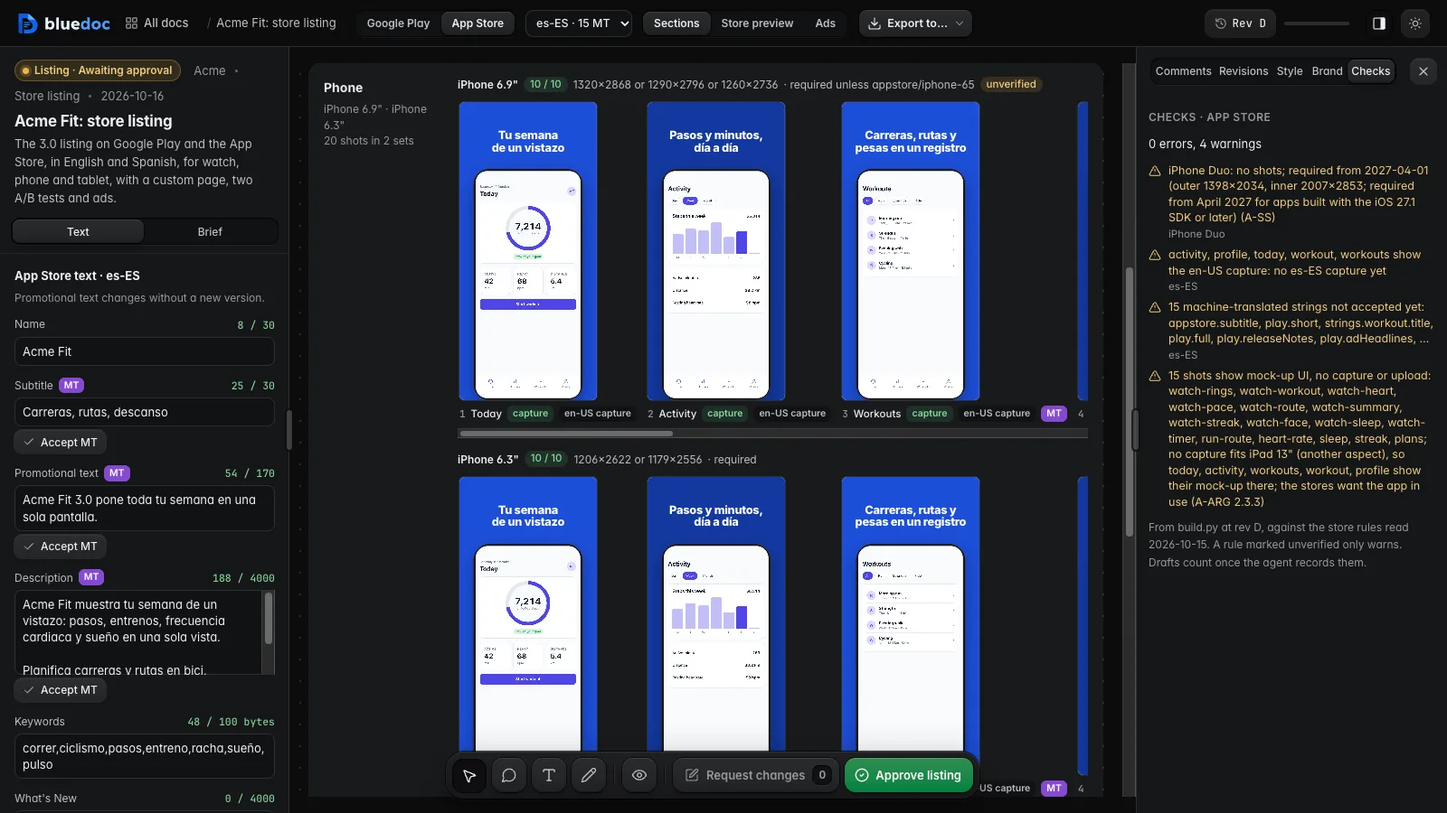
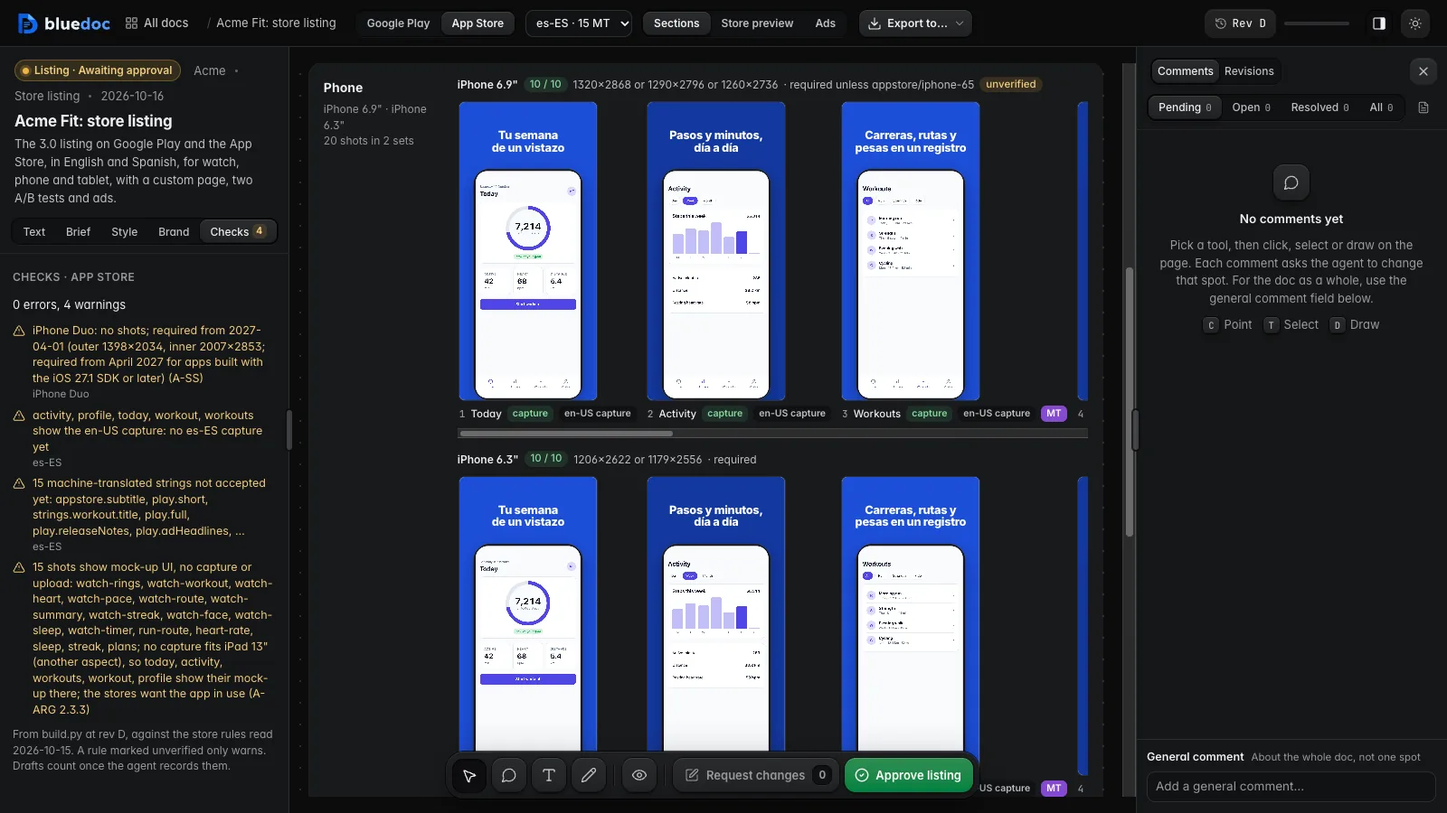
storelisting: Style, Brand and Checks move to the left panel (Text · Brief · Style · Brand · Checks, one row at 300 px and up, the Checks tab counts errors else warnings, the browser keeps the tab); the right panel keeps Comments and Revisions as on every doc; a style or brand finding opens its tab;

diff --git a/skills/bluedoc/assets/template.html b/skills/bluedoc/assets/template.html
@@ -1834,8 +1834,8 @@ html.bd-presenting .bp-toast { z-index: 71; bottom: 84px; }
 .bd-anntb.compact .bd-key :is(.t, .l) { display: none; }
 
 /* ---------- a storelisting's platform pages (renderListing): the platform switch and the locale menu in the app
-   bar; the store text and captions in the left panel; the device sections, each a card of its sets' shots at scale,
-   in the full-bleed layer; Style, Brand and Checks beside Comments in the right panel ---------- */
+   bar; the left panel's Text, Brief, Style, Brand and Checks; the device sections, each a card of its sets' shots
+   at scale, in the full-bleed layer ---------- */
 .bd-lst-tb { display: flex; align-items: center; gap: 10px; flex: none; margin-left: 8px; }
 .bd-lst-tb .bd-sg button { padding: 0 12px; font-weight: 600; }
 .bd-lst-loc { height: 30px; border: 0; border-radius: 9px; padding: 0 8px; font: 500 12.5px var(--sans); color: var(--fg); background: var(--inset); box-shadow: inset 0 0 0 1px var(--line); }
@@ -1988,10 +1988,17 @@ html.bd-presenting .bp-toast { z-index: 71; bottom: 84px; }
 .bd-lst-tb .bd-exp { margin-left: 2px; }
 .bd-lfield.cap { grid-template-columns: minmax(0, 1fr); }
 .bd-lfield.cap .v { max-height: none; }
-/* Style, Brand and Checks in the right panel */
-.bd-lst-pane { display: grid; align-content: start; gap: 10px; padding: 12px 14px calc(16px + var(--tray-room, 0px)); overflow: auto; min-height: 0; min-width: 0; font-size: 13px; }
+/* the left panel's five tabs: no shrinking; a panel too narrow for them scrolls them sideways. Checks counts its errors (else warnings) */
+.bd-lst-lpt { position: relative; overflow-x: auto; scrollbar-width: none; }
+.bd-lst-lpt::-webkit-scrollbar { display: none; }
+.bd-lst-lpt button { flex: 1 0 auto; gap: 3px; padding: 0 5px; }
+.bd-lst-lpt .n { min-width: 16px; height: 16px; padding: 0 4px; border-radius: 5px; font: 650 10.5px/16px var(--sans); font-variant-numeric: tabular-nums; color: var(--risk-fg); background: var(--risk-tint); }
+.bd-lst-lpt .n.warn { color: var(--warn-fg); background: var(--warn-tint); }
+.bd-lst-lpt .n[hidden] { display: none; }
+/* Style, Brand and Checks: left panel tabs */
+.bd-lst-pane { display: grid; grid-template-columns: minmax(0, 1fr); align-content: start; gap: 10px; padding: 12px 14px calc(16px + var(--tray-room, 0px)); overflow: auto; overflow-x: hidden; min-height: 0; min-width: 0; font-size: 13px; }
 .bd-lst-pane > p { margin: 0; }
-.bd-lst-pane .hint { font-size: 12px; color: var(--fg-subtle); }
+.bd-lst-pane .hint { margin: 0; font-size: 12px; color: var(--fg-subtle); }
 .bd-lst-pane h4 { margin: 4px 0 0; font-size: 12px; font-weight: 600; text-transform: uppercase; letter-spacing: .04em; color: var(--fg-subtle); }
 /* the Style pane: a card per style (its thumbnail in the brand's colours, grade, store form, state); the pick is on */
 .bd-lst-pick { display: flex; flex-wrap: wrap; align-items: center; gap: 6px 10px; padding: 8px 10px; border-radius: 10px; background: var(--inset); font-size: 12.5px; color: var(--fg-muted); }
@@ -2682,10 +2689,11 @@ function resetWidth() { userW = 0; store.del(WIDTH_KEY); applyWidth(); toast('Co
 
 // A design page's panels take the same handles on the edge each shares with the board: Screens and Brief on
 // the left (while open), Comments and Revisions on the right (while docked). Their widths are reader prefs
-// too; each panel stays within its bounds and leaves the board at least BOARD_MIN wide.
+// too; each panel stays within its bounds and leaves the board at least BOARD_MIN wide. A storelisting's left
+// panel holds five tabs and the Brand pane's rows: at least 300 px.
 const BOARD_MIN = 480;
 const PANELS = IS_DESIGN ? [
-  { side: 'left', v: '--lp-w', key: 'bluedoc:design-left-w', min: 240, max: 560, dir: 1, label: 'Width of the screens and brief panel', on: () => root.classList.contains('bd-lp-open') && !PHONE.matches },
+  { side: 'left', v: '--lp-w', key: 'bluedoc:design-left-w', min: IS_LISTING ? 300 : 240, max: 560, dir: 1, label: IS_LISTING ? 'Width of the left panel' : 'Width of the screens and brief panel', on: () => root.classList.contains('bd-lp-open') && !PHONE.matches },
   { side: 'right', v: '--sp-w', key: 'bluedoc:design-right-w', min: 280, max: 640, dir: -1, label: 'Width of the comments panel', on: () => dockW() > 0 },
 ] : [];
 for (const p of PANELS) {
@@ -6597,7 +6605,8 @@ function renderListing(lb) {
     ['ads', 'Ads', 'Google App campaign and Apple Ads assets']].map(([v, l, t]) => h('button', { type: 'button', role: 'radio', 'data-view': v, title: t, onclick: () => setView(v) }, l)));
   const tb = h('div', { class: 'bd-lst-tb' }, platSeg, locSel, viewSeg, SERVED && exportMenu(LST_EXPORTS, exportListing, 'Export the listing: a ZIP for fastlane, a PDF or an HTML file', false));
 
-  /* the left panel: Text (this platform's store text and the captions, for the locale) and Brief */
+  /* the left panel: Text (this platform's store text and the captions, for the locale), Brief, then Style, Brand
+     and Checks (below) */
   const lpText = h('div', { class: 'bd-lp-pane bd-lst-text', id: 'bd-lp-text' });
   let lp = null, lpTabs = null;
   function paintText() {
@@ -7261,8 +7270,10 @@ function renderListing(lb) {
     return out;
   };
 
-  /* the right panel: Style, Brand and Checks for the platform on screen */
-  const paneStyle = h('div', { class: 'bd-lst-pane bd-lst-stp' }), paneBrand = h('div', { class: 'bd-lst-pane bd-lst-brp' }), paneChecks = h('div', { class: 'bd-lst-pane' });
+  /* the left panel's Style, Brand and Checks for the platform on screen: panel furniture (bd-lp-ui), so Point and
+     Select leave their controls alone */
+  const lpPane = (id, cls) => h('div', { class: `bd-lp-pane bd-lp-ui bd-lst-pane ${cls}`.trim(), id: 'bd-lp-' + id, hidden: true });
+  const paneStyle = lpPane('style', 'bd-lst-stp'), paneBrand = lpPane('brand', 'bd-lst-brp'), paneChecks = lpPane('checks', '');
   L.panes = { style: paneStyle, brand: paneBrand, checks: paneChecks };
 
   /* ---------- Style and Brand ----------
@@ -7355,7 +7366,6 @@ function renderListing(lb) {
     const vb = pg.querySelector('.bd-lst-vbar'), p = PLATS.find(x => x.id === L.platform);
     if (vb && p) vb.replaceWith(variantBar(p));   // a style pick changes a variant's count of changes
     paintStyle(); paintBrand();
-    if (L.S) L.S.paint();
   };
 
   // kits/style-thumbs.svg (LST.thumbs): its symbols in the page once, each card a <use> of its own
@@ -7472,7 +7482,7 @@ function renderListing(lb) {
     } catch { toast('Couldn\'t read that image'); } finally { BUI.drop.classList.remove('busy'); }
   }
   function buildBrand() {
-    const q = h('input', { type: 'search', class: 'bd-lst-fq', placeholder: 'Search the installed fonts', 'aria-label': 'Search the installed fonts', autocomplete: 'off', spellcheck: 'false' });
+    const q = h('input', { type: 'search', class: 'bd-lst-fq', placeholder: 'Search fonts', 'aria-label': 'Search the installed fonts', autocomplete: 'off', spellcheck: 'false' });
     q.addEventListener('input', () => { FONTS.q = q.value; paintBrand(); });
     q.addEventListener('focus', () => { if (!FONTS.list && !FONTS.busy) loadFonts(); });
     const weight = h('select', { class: 'bd-lst-fw', 'aria-label': 'Caption weight' });
@@ -7552,17 +7562,28 @@ function renderListing(lb) {
   function paintChecks() {
     const cs = L.checks(), p = PLATS.find(x => x.id === L.platform), ne = cs.filter(([k]) => k === 'err').length, nw = cs.length - ne;
     const where = f => [f.set && SETS.has(f.set) ? SETS.get(f.set).label : null, ...(Array.isArray(f.locales) ? f.locales : [])].filter(Boolean).join(' · ');
+    // a finding with a key shows its shot, field, section or variant; one on the style or the brand (`….style.play`,
+    // `….brand.palette`: the style hooks that need the agent, the contrast pairs) opens its tab
+    const paneOf = f => { const m = typeof f.where === 'string' && /\.(style|brand)(?:\.|$)/.exec(f.where); return m ? m[1] : null; };
     const item = ([k, t, f]) => {
-      const go = typeof f.key === 'string' && f.key ? () => L.focusKey(f.key) : null;
+      const tab = paneOf(f), go = typeof f.key === 'string' && f.key ? () => L.focusKey(f.key) : tab ? () => { setLp(true, false); setTab(tab, false); } : null;
       return h('li', { class: k, 'data-key': f.key || null }, ic(k === 'err' ? 'x' : 'alert'),
-        h('span', { class: 't' }, go ? h('button', { type: 'button', class: 'bd-lst-ui', title: 'Show it', onclick: go }, t) : t, where(f) && h('small', {}, where(f))));
+        h('span', { class: 't' }, go ? h('button', { type: 'button', class: 'bd-lst-ui', title: tab && !f.key ? `Open ${tab === 'style' ? 'Style' : 'Brand'}` : 'Show it', onclick: go }, t) : t, where(f) && h('small', {}, where(f))));
     };
     setKids(paneChecks, h('h4', {}, `Checks · ${p ? p.label : ''}`),
       h('p', { class: 'bd-lst-csum' + (ne ? ' err' : '') }, ne || nw ? `${ne} error${ne === 1 ? '' : 's'}, ${nw} warning${nw === 1 ? '' : 's'}` : 'The store rules pass on this page'),
       h('ul', { class: 'bd-lst-checks' }, cs.length ? cs.map(item) : h('li', { class: 'ok' }, ic('tick'), h('span', { class: 't' }, 'Sizes, counts, required sets, text limits and locales pass'))),
       h('p', { class: 'hint' }, `From build.py at rev ${CUR.rev || '-'}${OLD ? ' (the current revision)' : ''}, against the store rules read ${RULES.accessed}. A rule marked unverified only warns. Drafts count once the agent records them.`));
+    paintChecksTab(ne, nw);
   }
-  function paintSide() { paintStyle(); paintBrand(); paintChecks(); if (L.S) L.S.paint(); }
+  // the Checks tab's count: its errors, else its warnings
+  function paintChecksTab(ne, nw) {
+    const bt = lpTabs && lpTabs.querySelector('[data-v="checks"]'); if (!bt) return;
+    const n = bt.querySelector('.n'), say = ne || nw ? `${ne} error${ne === 1 ? '' : 's'}, ${nw} warning${nw === 1 ? '' : 's'}` : 'The store rules pass';
+    n.hidden = !(ne || nw); n.textContent = String(ne || nw); n.classList.toggle('warn', !ne);
+    bt.title = say; bt.setAttribute('aria-label', `Checks: ${say}`);
+  }
+  function paintSide() { paintStyle(); paintBrand(); paintChecks(); }
 
   /* BOARD's interface for the page around it (MARKUP, SIDE, compare) */
   L.setMode = m => { L.mode = m; pg.dataset.m = ['point', 'select'].includes(m) ? m : 'view'; for (const x of L.live) post(x, { bd: 'mode', mode: frameMode() }); };
@@ -7653,10 +7674,15 @@ function renderListing(lb) {
     applyWidth(); if (remember) store.set(LP_KEY, L.lp ? '1' : '0');
     setTimeout(() => L.M && L.M.relayout(), 260);
   }
+  const LP_TABS = [['text', 'Text'], ['brief', 'Brief'], ['style', 'Style'], ['brand', 'Brand'], ['checks', 'Checks']];
   function setTab(t, remember) {
-    if (!lp) return;
+    if (!lp || !LP_TABS.some(([v]) => v === t)) return;
     if (remember) store.set(LP_TAB, t);
-    for (const bt of lpTabs.querySelectorAll('button')) { const on = bt.dataset.v === t; bt.setAttribute('aria-checked', String(on)); $('#' + bt.getAttribute('aria-controls')).hidden = !on; }
+    for (const bt of lpTabs.querySelectorAll('button')) {
+      const on = bt.dataset.v === t; bt.setAttribute('aria-checked', String(on)); $('#' + bt.getAttribute('aria-controls')).hidden = !on;
+      // a strip narrower than its tabs scrolls the picked one into view (the strip only, never the page)
+      if (on && lpTabs.scrollWidth > lpTabs.clientWidth) lpTabs.scrollLeft = Math.max(0, Math.min(lpTabs.scrollLeft, bt.offsetLeft - 4), bt.offsetLeft + bt.offsetWidth + 4 - lpTabs.clientWidth);
+    }
   }
   L.start = () => {
     const blk = wrap.closest('.bp-block'), shell = $('.bd-shell');
@@ -7664,13 +7690,15 @@ function renderListing(lb) {
     blk.replaceWith(h('div', { class: 'bp-block bd-board-ph' }, ic('frame'), h('span', {}, 'This listing is on the platform pages.')));
     blk.classList.add('bd-boardblk'); shell.append(blk);
     $('.bd-crumb').after(tb);
-    lpTabs = h('div', { class: 'bd-sg', role: 'radiogroup', 'aria-label': 'Panel' }, [['text', 'Text'], ['brief', 'Brief']].map(([v, l]) =>
-      h('button', { type: 'button', role: 'radio', 'data-v': v, 'aria-controls': 'bd-lp-' + v, onclick: () => setTab(v, true) }, l)));
-    lp = h('aside', { class: 'bd-lp', 'aria-label': 'Store text and brief', inert: true }, head, h('div', { class: 'bd-lp-tabs bd-lp-ui' }, lpTabs), lpText,
-      h('div', { class: 'bd-lp-pane', id: 'bd-lp-brief', hidden: true }, tldr, main));
+    lpTabs = h('div', { class: 'bd-sg bd-lst-lpt', role: 'radiogroup', 'aria-label': 'Panel' }, LP_TABS.map(([v, l]) =>
+      h('button', { type: 'button', role: 'radio', 'data-v': v, 'aria-controls': 'bd-lp-' + v, onclick: () => setTab(v, true) }, l, v === 'checks' && h('span', { class: 'n', hidden: true }))));
+    lp = h('aside', { class: 'bd-lp', 'aria-label': 'Text, brief, style, brand and checks', inert: true }, head, h('div', { class: 'bd-lp-tabs bd-lp-ui' }, lpTabs), lpText,
+      h('div', { class: 'bd-lp-pane', id: 'bd-lp-brief', hidden: true }, tldr, main), paneStyle, paneBrand, paneChecks);
     shell.prepend(lp);
     placeMeta();
-    setTab(store.get(LP_TAB) === 'brief' ? 'brief' : 'text', false);
+    const tab = store.get(LP_TAB);
+    setTab(LP_TABS.some(([v]) => v === tab) ? tab : 'text', false);
+    paintChecks();
     const pref = store.get(LP_KEY);
     setLp(pref ? pref === '1' : innerWidth > 900, false);
     paintTb(); renderSections(); writeHash();
@@ -7681,14 +7709,11 @@ function renderListing(lb) {
     });
     pg.addEventListener('scroll', () => { if (L.M) L.M.relayout(); }, { passive: true });
   };
-  // after MARKUP and SIDE exist: the drafts, the right panel's tabs
+  // after MARKUP exists: the drafts
   L.afterMarkup = () => {
-    L.M = MARKUP; L.D = MARKUP.drafts || null; L.S = SIDE;
+    L.M = MARKUP; L.D = MARKUP.drafts || null;
     if (L.D) for (const a of drafts()) { const f = L.draftRecorded[a.listing.op]; if (f && f(a.listing)) L.D.resolve(a.id); }   // a draft the doc now has is applied
     L.syncUploads();
-    SIDE.add({ id: 'style', label: 'Style', at: 2, body: paneStyle });
-    SIDE.add({ id: 'brand', label: 'Brand', at: 3, body: paneBrand });
-    SIDE.add({ id: 'checks', label: 'Checks', at: 4, body: paneChecks, chip: () => { const n = L.checks().filter(([k]) => k === 'err').length; return n ? `${n} error${n === 1 ? '' : 's'}` : ''; } });
     draftSig = ''; liveSig = ''; L.paintDrafts(); renderSections(); paintSide();
     for (const x of L.tiles) locate(x);
   };

diff --git a/tests/test_listing_export.py b/tests/test_listing_export.py
@@ -263,9 +263,9 @@ class ListingPage(ChromePage):
         t.ev(f"location.hash = {json.dumps(frag)}; location.reload()")
         t.wait_for("document.readyState === 'complete' && !!window.BP && !!document.querySelector('.bd-lst-sec') && !!BP.listing()")
         if side:
-            t.ev("document.documentElement.classList.contains('bd-sp-open') || document.querySelector('.bd-sp-btn').click()")
-            t.ev(f"document.querySelector('.bd-sp-tabs [data-f=\"{side}\"]').click()")
-            t.wait_for(f"!document.getElementById('bd-sp-{side}').hidden")
+            t.ev("document.documentElement.classList.contains('bd-lp-open') || document.dispatchEvent(new KeyboardEvent('keydown', {key: '['}))")
+            t.ev(f"document.querySelector('.bd-lp-tabs [data-v=\"{side}\"]').click()")
+            t.wait_for(f"!document.getElementById('bd-lp-{side}').hidden && document.documentElement.classList.contains('bd-lp-open')")
         return t
 
     def approve_disabled(self, t) -> bool:
@@ -275,12 +275,27 @@ class ListingPage(ChromePage):
         path = copy_broken(self.docs)
         t = self.page(self.server.url_for(path), "#appstore", "checks")
         found = [f for f in listing.checks_page_data(load_json(path), path) if not f["platforms"] or "appstore" in f["platforms"]]
-        got = t.ev("[...document.querySelectorAll('#bd-sp-checks .bd-lst-checks li')].map(li => [li.className, li.dataset.key || null])")
+        got = t.ev("[...document.querySelectorAll('#bd-lp-checks .bd-lst-checks li')].map(li => [li.className, li.dataset.key || null])")
         self.assertEqual(sorted(got, key=repr), sorted([[f["level"], f["key"]] for f in found], key=repr))
         self.assertTrue(any(k == "err" for k, _ in got))
         texts = t.ev("(() => { const w = document.createTreeWalker(document.querySelector('.bd-lst-brp'), NodeFilter.SHOW_TEXT), out = [];"
                      " while (w.nextNode()) out.push(w.currentNode.data.trim()); return out; })()")
         self.assertNotIn("false", texts, "a `cond && h(…)` child drew as text")
+        # the tab is the left panel's, with its count of errors; the right panel keeps Comments and Revisions only
+        ne = sum(f["level"] == "err" for f in found)
+        self.assertEqual(t.ev("[...document.querySelectorAll('.bd-lp-tabs [data-v]')].map(b => b.dataset.v)"), ["text", "brief", "style", "brand", "checks"])
+        self.assertEqual(t.ev("(n => [n.hidden, n.textContent, n.classList.contains('warn')])(document.querySelector('.bd-lp-tabs [data-v=checks] .n'))"), [False, str(ne), False])
+        self.assertEqual(t.ev("document.querySelector('.bd-lp-tabs').getBoundingClientRect().height < 50"), True, "the five tabs keep one row")
+        side = t.ev("BP.sidebar().available")
+        self.assertTrue(side and set(side) <= {"comments", "revisions"}, side)
+        self.assertEqual(t.ev("document.querySelectorAll('#bd-sp .bd-lst-pane, #bd-sp-style, #bd-sp-brand, #bd-sp-checks').length"), 0)
+        # a finding with a key shows its shot
+        t.ev("document.querySelector('#bd-lp-checks li[data-key=\"artboard:alpha\"] button').click()")
+        t.wait_for("!!document.querySelector('.bd-lst-shot[data-ab=\"alpha\"].flash')")
+        # a reload keeps the tab
+        t.ev("window.__before = 1; location.reload()")
+        t.wait_for("!window.__before && document.readyState === 'complete' && !!window.BP && !!document.querySelector('.bd-lst-sec') && !!BP.listing()")
+        self.assertEqual(t.ev("[document.getElementById('bd-lp-checks').hidden, document.querySelector('.bd-lp-tabs [data-v=checks]').getAttribute('aria-checked')]"), [False, "true"])
 
     def test_accept_mt_is_a_draft_whose_command_clears_the_badge(self) -> None:
         t = self.page(self.url, "#play/es-ES")

diff --git a/tests/test_listing_brand.py b/tests/test_listing_brand.py
@@ -4,9 +4,10 @@ store-rules.json `brand` and match a reference WCAG 2.2 calculation; the build w
 embed and a style whose hook is missing, and checks listing.style.<platform>; `patch brand:` records a brand draft;
 GET /__bluedoc/fonts and POST /__bluedoc/listing/brand need the key, and the brand image lands in
 <stem>.listing/brand/. Under node, the page's k-means finds an image's colours by share and gives them roles.
-The browser tests (BLUEDOC_BROWSER_TESTS=1): a style pick restyles the shots in place and goes as decisions with its
-patch command; an image's palette, the role editor and the contrast pairs; a brand draft blocks Approve; the font menu
-lists the folder's fonts and ↻ Fonts finds a new one; an installed font renders in a shot."""
+The browser tests (BLUEDOC_BROWSER_TESTS=1), on the left panel's Style, Brand and Checks tabs: a style pick restyles
+the shots in place and goes as decisions with its patch command; a style finding in Checks opens Style; an image's
+palette, the role editor and the contrast pairs; a brand draft blocks Approve; the font menu lists the folder's fonts
+and ↻ Fonts finds a new one; an installed font renders in a shot."""
 from __future__ import annotations
 
 import base64
@@ -404,12 +405,12 @@ class BrandPage(ChromePage):
         self.base = f"http://{self.server.host}"
 
     def page(self, side: str):
-        """The listing's page with the right panel open on `side` (style or brand)."""
+        """The listing's page with the left panel open on `side` (style or brand)."""
         t = self.open(self.url)
         t.wait_for("!!document.querySelector('.bd-lst-sec') && !!BP.listing()")
-        t.ev("document.documentElement.classList.contains('bd-sp-open') || document.querySelector('.bd-sp-btn').click()")
-        t.ev(f"document.querySelector('.bd-sp-tabs [data-f=\"{side}\"]').click()")
-        t.wait_for(f"!document.getElementById('bd-sp-{side}').hidden")
+        t.ev("document.documentElement.classList.contains('bd-lp-open') || document.dispatchEvent(new KeyboardEvent('keydown', {key: '['}))")
+        t.ev(f"document.querySelector('.bd-lp-tabs [data-v=\"{side}\"]').click()")
+        t.wait_for(f"!document.getElementById('bd-lp-{side}').hidden && document.documentElement.classList.contains('bd-lp-open')")
         return t
 
     def first_tile(self, t, s: str = "play/phone") -> dict:
@@ -450,6 +451,18 @@ class BrandPage(ChromePage):
         t2 = self.page("style")
         self.assertEqual(t2.ev(LST)["style"], {"message": "m3", "layout": "l4"})
         self.assertNotIn("Your pick", t2.ev("document.querySelector('.bd-lst-pick').textContent"))
+
+    def test_a_style_finding_in_checks_opens_the_style_tab(self) -> None:
+        doc = load_json(self.doc_path)
+        lb = listing.listing_of(doc)
+        lb["style"] = {**(lb.get("style") or {}), "play": {"message": "m4", "layout": "l1"}}   # M4 on Play warns: use-case first
+        self.doc_path.write_text(json.dumps(doc, indent=2, ensure_ascii=False) + "\n")
+        t = self.page("checks")
+        t.ev("BP.listing({platform: 'play'})")
+        open_style = "[...document.querySelectorAll('#bd-lp-checks li.warn button')].find(b => b.title === 'Open Style')"
+        t.wait_for(f"!!{open_style}")
+        t.ev(f"{open_style}.click()")
+        t.wait_for("!document.getElementById('bd-lp-style').hidden && document.querySelector('.bd-lp-tabs [data-v=style]').getAttribute('aria-checked') === 'true'")
 
     def test_a_palette_from_an_image_with_roles_contrast_and_a_draft_that_blocks_approve(self) -> None:
         t = self.page("brand")

diff --git a/docs/types/storelisting.md b/docs/types/storelisting.md
@@ -2,7 +2,7 @@
 
 An app's listing on Google Play and the App Store: the screenshots for every device, the icon and feature graphic, the store text in each locale, A/B tests, custom pages and ads. You check it against the stores' rules, comment on any shot or field, approve it, and get the fastlane folders to upload. The app's own screens are a [design](design.md).
 
-![The acme-fit-listing App Store page in es-ES: the store text with its counters and MT badges on the left, the iPhone 6.9" and 6.3" sets of captured shots with Spanish captions, and the Checks tab listing the store-rule warnings](../media/storelisting-hero.webp)
+![The acme-fit-listing App Store page in es-ES: the left panel's Checks tab listing the store-rule warnings, the iPhone 6.9" and 6.3" sets of captured shots with Spanish captions, and Comments and Revisions on the right](../media/storelisting-hero.webp)
 
 ## Features
 
@@ -10,9 +10,9 @@ An app's listing on Google Play and the App Store: the screenshots for every dev
 - **One file, every set.** A shot is an HTML file in the shot kit: a caption, a device frame or card, and the app's UI. The page renders the same file at each set's size (Play phone 1080×1920, iPhone 6.9" 1320×2868, iPad 2064×2752, Wear OS, Apple Watch), so a change lands everywhere at once. Watch sets show the UI alone, as the stores require.
 - **Real screenshots.** A shot shows a mock-up until it has a capture or an upload, and says so (**mock UI**, **capture**, **stale**, **upload**). `capture.py` runs each shot's recipe on the iOS and watchOS simulators, an Android or Wear OS emulator, or headless Chrome against a design doc's screens or a local dev server, with a 9:41 status bar. Drop a PNG on a set's slot to upload one; the page and the server check its size and alpha first.
 - **Re-shoot from a comment.** A pin on a capture names the shot, its screen, the recipe and the `capture.py` command, so the agent fixes the app or the recipe and re-shoots; compare shows the old capture beside the new one.
-- **Styles and brand.** The **Style** tab picks a caption style (M1–M5) and a layout (L1–L5) per platform, each with its evidence; every shot re-renders live. The **Brand** tab sets the caption font from the fonts installed on your machine, and a palette, by hand or extracted from an image, with a contrast check on each text pair.
+- **Styles and brand.** The left panel's **Style** tab picks a caption style (M1–M5) and a layout (L1–L5) per platform, each with its evidence; every shot re-renders live. The **Brand** tab sets the caption font from the fonts installed on your machine, and a palette, by hand or extracted from an image, with a contrast check on each text pair.
 - **Locales and MT.** The locale menu switches text, captions and captures; each entry counts missing and machine-translated strings. MT strings carry an **MT** badge until accepted; **Accept MT** sends the agent the command that clears them. A missing string falls back to the default locale and is flagged where it shows.
-- **Store checks.** `build.py` checks the listing against a dated rules file with a source for each rule: text limits (Apple's keywords in bytes), set counts and required sets, exact sizes, alpha, Wear's UI-only rule, the Apple Watch's one size, locales that fall back, mock-up UI, contrast and variants. The **Checks** tab lists each page's findings; a rule marked unverified only warns.
+- **Store checks.** `build.py` checks the listing against a dated rules file with a source for each rule: text limits (Apple's keywords in bytes), set counts and required sets, exact sizes, alpha, Wear's UI-only rule, the Apple Watch's one size, locales that fall back, mock-up UI, contrast and variants. The left panel's **Checks** tab lists each page's findings and counts them on the tab; a rule marked unverified only warns. The right panel keeps Comments and Revisions, as on every doc.
 - **Variants and ads.** A tab per custom product page or A/B test (App Store CPP and PPO, Play custom listings and experiments) shows what it changes against the default page, with **Compare to default** side by side. The **Store preview** draws the product and search pages as a mock; the **Ads** view holds Google App campaign text and images and Apple Ads' variations and search asset.
 - **Export to…** the fastlane ZIP (`supply` and `deliver` folders, every PNG re-encoded as 24-bit RGB with no alpha, variants and ads beside them, a `manifest.json` with each file's sha256, the MT strings and the fonts), a PDF or an HTML file for review.
 - **Approve listing.** As on plans and designs. The dialog counts the unaccepted MT strings and the shots with mock-up UI, and names the variants it covers; the style picks travel under `## Decisions`. On the home page a listing's card shows a column per store with a dot per section, coloured by its worst check.

diff --git a/skills/bluedoc/references/schema.md b/skills/bluedoc/references/schema.md
@@ -462,7 +462,7 @@ A storelisting (`meta.type: "storelisting"`) is one app's store listing on Googl
 | `capture` | The capture recipes' devices and apps: `{devices: {<target>: <simulator name or UDID, or AVD name>}, apps: {ios\|watchos: {bundle, app?}, android\|wearos: {package, apk?}, web: {url} \| {design}}}`. `app`/`apk`: a build beside the doc, installed first. `web.url`: a loopback dev server; `web.design`: a design doc beside it, whose screens the web target captures. See [Uploads and captures](#uploads-and-captures). |
 | `variants` | Custom pages and A/B tests: see [Variants, preview and ads](#variants-preview-and-ads). |
 
-The left panel's **Text** tab lists the shown platform's fields for the shown locale with a counter (code points; UTF-8 bytes for Apple keywords), red past the limit, then the captions; the right panel adds **Style**, **Brand** and **Checks** (the build's findings for the platform on screen: see [Checks](#checks)). Point and Select pin a comment inside a shot (`el:<shot>/…`, with `platform`, `locale` and `set` in the target) or on a field (`field:`). Dragging a shot in View reorders its set; turning on a section changes `rows`. Both are drafts: Request changes sends them under **Board drafts** with one `build.py patch <doc> block:<listing path> --json '{"order": …, "rows": …}'` command.
+The left panel has five tabs: **Text**, **Brief**, **Style**, **Brand** and **Checks**; the browser keeps the last one picked (`localStorage` key `bluedoc:listing-tab`). **Text** lists the shown platform's fields for the shown locale with a counter (code points; UTF-8 bytes for Apple keywords), red past the limit, then the captions. **Checks** lists the build's findings for the platform on screen (see [Checks](#checks)); its tab counts the errors, else the warnings. The right panel holds Comments and Revisions only, as on every doc. Point and Select pin a comment inside a shot (`el:<shot>/…`, with `platform`, `locale` and `set` in the target) or on a field (`field:`). Dragging a shot in View reorders its set; turning on a section changes `rows`. Both are drafts: Request changes sends them under **Board drafts** with one `build.py patch <doc> block:<listing path> --json '{"order": …, "rows": …}'` command.
 
 ### Style and brand
 
@@ -510,7 +510,7 @@ Each set's chip shows its shot count against its range, its accepted sizes and w
 
 ### Checks
 
-`build.py <doc>` runs every store check (`listing.store_checks`). Each finding names its platforms, set, locales, section, key and source (the rules file's `sources`); a rule marked `unverified` only warns. Store-rule errors fail the build (exit 1) but leave the page, its history and its exports working: the **Checks** tab lists the build's findings for the platform on screen (click one to show its field or shot), and the home card colours each section by its worst one.
+`build.py <doc>` runs every store check (`listing.store_checks`). Each finding names its platforms, set, locales, section, key and source (the rules file's `sources`); a rule marked `unverified` only warns. Store-rule errors fail the build (exit 1) but leave the page, its history and its exports working: the **Checks** tab lists the build's findings for the platform on screen (click one to show its field or shot; one on the style or the brand, such as *needs the agent* or a contrast pair, opens the Style or Brand tab), and the home card colours each section by its worst one.
 
 | Check | Error | Warning |
 |---|---|---|

diff --git a/skills/bluedoc/types/storelisting.md b/skills/bluedoc/types/storelisting.md
@@ -6,7 +6,7 @@
 python3 <skill>/scripts/build.py new storelisting docs/store/<app>.bluedoc.json --title "…"
 ```
 
-This writes the `listing` block, a board with one shot (`first`), an icon artboard and their files in `<app>.design/`. The page shows the board as two platform pages (Google Play, App Store) with a locale menu, the Text tab beside them, and Style, Brand and Checks on the right.
+This writes the `listing` block, a board with one shot (`first`), an icon artboard and their files in `<app>.design/`. The page shows the board as two platform pages (Google Play, App Store) with a locale menu, and a left panel of tabs beside them: Text, Brief, Style, Brand and Checks. The right panel holds Comments and Revisions, as on every doc.
 
 **Home card:** a column per platform with a dot per section, coloured by its worst check. **Required:** one `listing` block and one `board` of `shot`, `asset` and `icons` artboards. The fields, sets and checks: `grep -n -A60 '^## Listing' <skill>/references/schema.md`.
 
